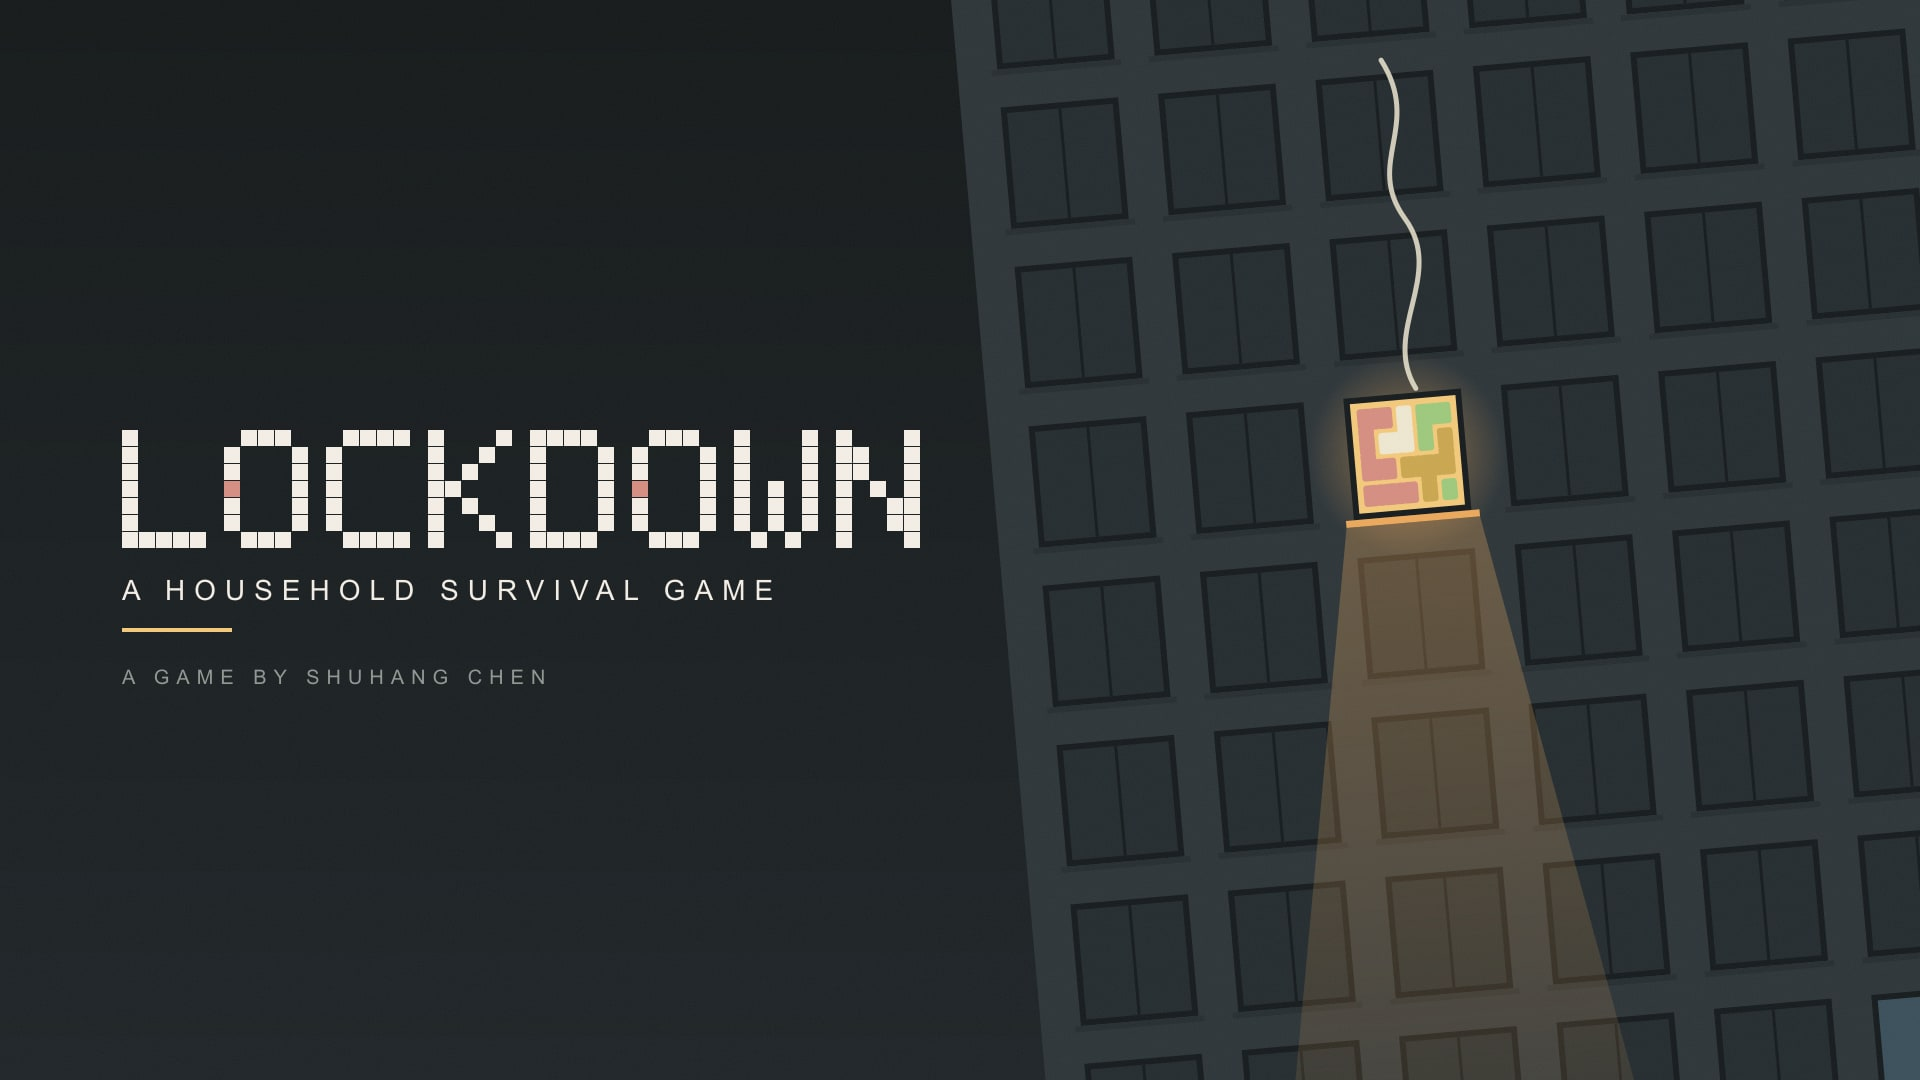
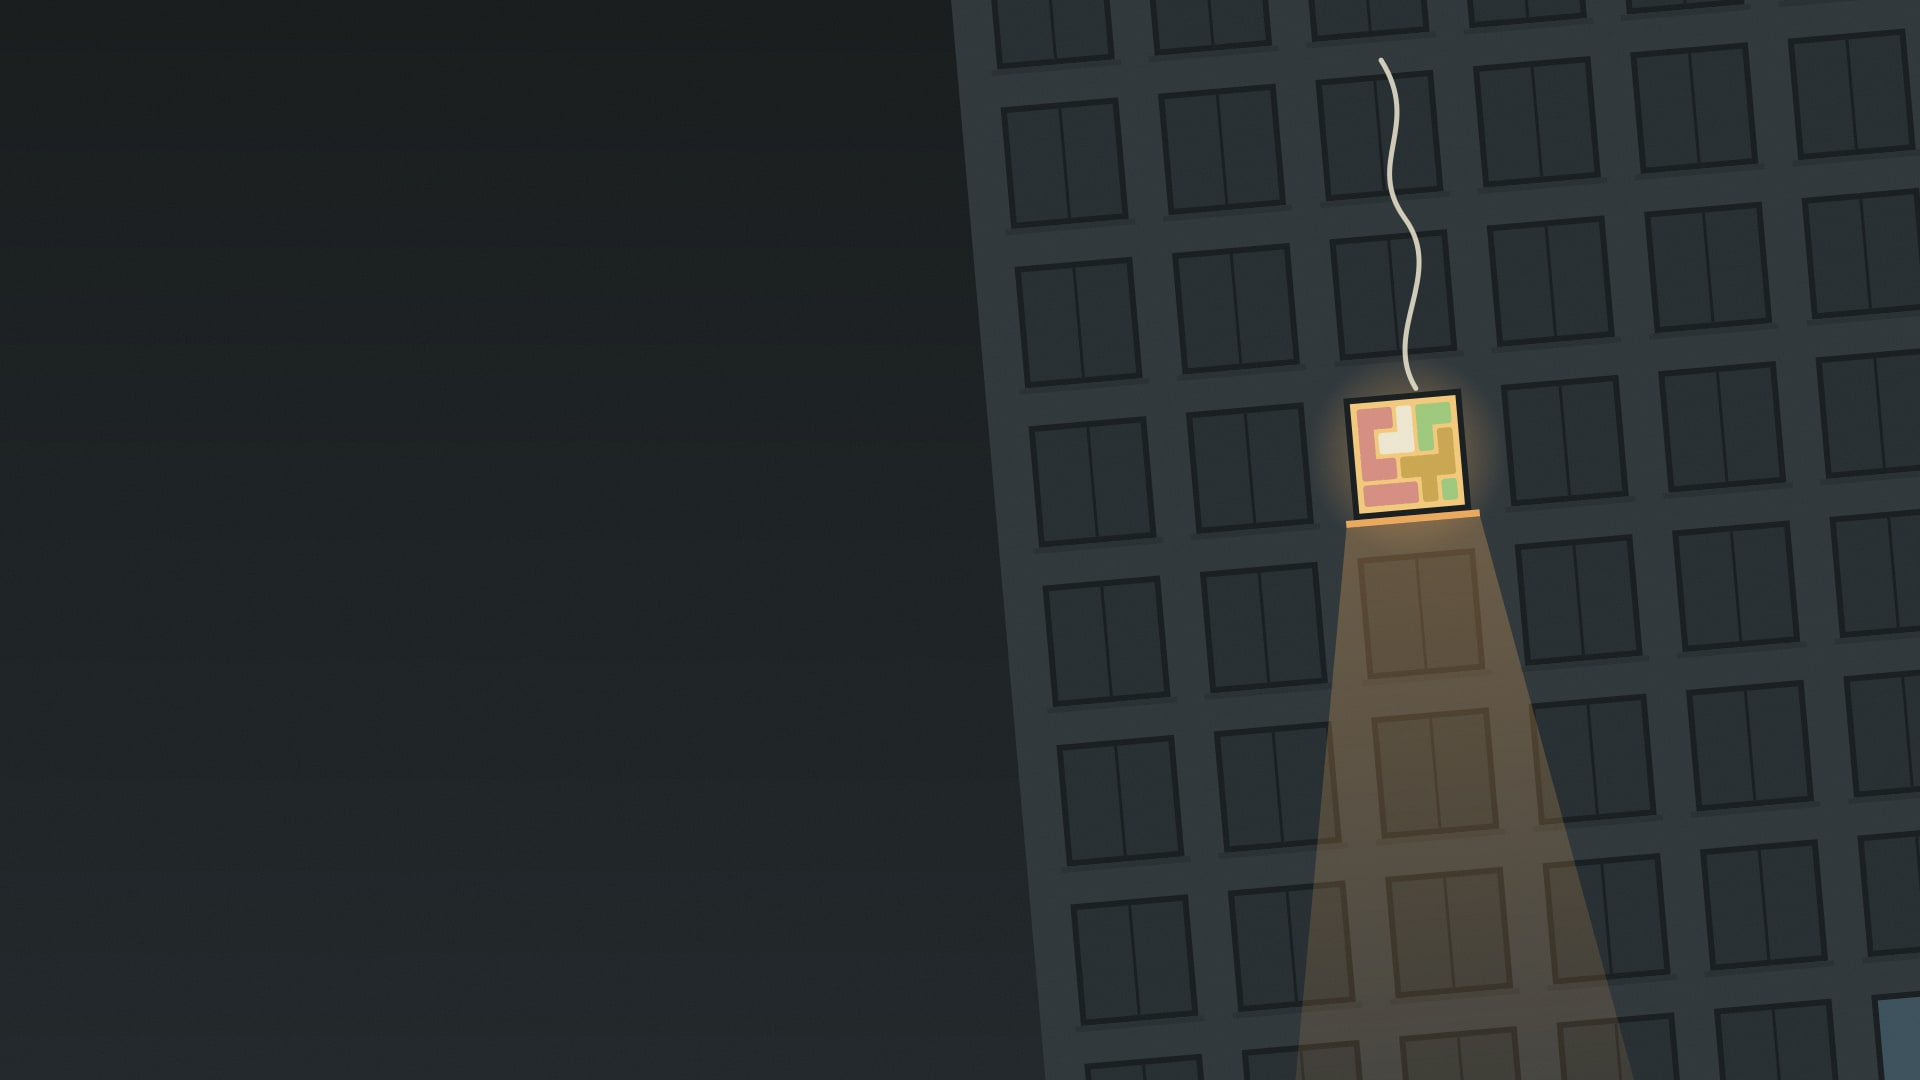
feat: per-game monitor loader (LOCKDOWN), hover lean and glint, disc iridescence, key-art handoff into the project page, idle attract mode

Changed region(s): [[0.0625, 0.3972, 0.5, 0.55], [0.1562, 0.6111, 0.2812, 0.6417], [0.0625, 0.5806, 0.125, 0.6417]]

diff --git a/src/game-loaders.ts b/src/game-loaders.ts
@@ -1,0 +1,84 @@
+import type { ArchiveRecord } from "./data";
+
+/**
+ * Per-game loading screens shown on the monitor while the disc is read.
+ * A record opts in with `loader` in content/archives.json; `t` runs 0 → 1
+ * across the read and the painter owns the whole 16:9 canvas.
+ */
+export type GameLoader = (c: CanvasRenderingContext2D, w: number, h: number, t: number) => void;
+
+const ease = (x: number) => 1 - (1 - Math.min(1, Math.max(0, x))) ** 3;
+const span = (t: number, a: number, b: number) => Math.min(1, Math.max(0, (t - a) / (b - a)));
+
+// LOCKDOWN: the game's ingredient pieces drop into the pan one by one as the
+// progress bar, then the cell-built title snaps in. Colours match the game;
+// the shapes are fitted so they fill the 6×4 pan exactly.
+const PAN_COLS = 6, PAN_ROWS = 4;
+const PIECES: { color: string; cells: [number, number][] }[] = [
+  { color: "#d9706a", cells: [[0, 0], [1, 0], [0, 1], [1, 1], [0, 2], [1, 2], [0, 3]] }, // pork
+  { color: "#ece8dc", cells: [[2, 0], [3, 0], [4, 0], [3, 1], [3, 2]] },                   // rice
+  { color: "#86cf5e", cells: [[2, 1], [2, 2], [1, 3], [2, 3], [3, 3]] },                   // cabbage
+  { color: "#c9a54e", cells: [[5, 0], [5, 1], [5, 2], [4, 1]] },                           // potato
+  { color: "#f5e39a", cells: [[4, 2], [4, 3], [5, 3]] },                                   // egg
+];
+const GLYPHS: Record<string, string[]> = {
+  L: ["10000", "10000", "10000", "10000", "10000", "10000", "11111"],
+  O: ["01110", "10001", "10001", "10001", "10001", "10001", "01110"],
+  C: ["01111", "10000", "10000", "10000", "10000", "10000", "01111"],
+  K: ["10001", "10010", "10100", "11000", "10100", "10010", "10001"],
+  D: ["11110", "10001", "10001", "10001", "10001", "10001", "11110"],
+  W: ["10001", "10001", "10001", "10101", "10101", "10101", "01010"],
+  N: ["10001", "11001", "11001", "10101", "10011", "10011", "10001"],
+};
+
+const lockdown: GameLoader = (c, w, h, t) => {
+  c.fillStyle = "#1d2326";
+  c.fillRect(0, 0, w, h);
+  const cell = h * 0.085, pw = PAN_COLS * cell, ph = PAN_ROWS * cell;
+  const ox = (w - pw) / 2, oy = h * 0.2;
+  // Pan rim and empty grid.
+  c.fillStyle = "#151a1c";
+  c.fillRect(ox - cell * 0.4, oy - cell * 0.4, pw + cell * 0.8, ph + cell * 0.8);
+  c.strokeStyle = "#8c9396";
+  c.lineWidth = 3;
+  c.strokeRect(ox - cell * 0.4, oy - cell * 0.4, pw + cell * 0.8, ph + cell * 0.8);
+  c.fillStyle = "#262c2e";
+  for (let y = 0; y < PAN_ROWS; y++) for (let x = 0; x < PAN_COLS; x++) c.fillRect(ox + x * cell + 2, oy + y * cell + 2, cell - 4, cell - 4);
+  // Pieces fall in sequence over the first 80% of the read, with a small settle.
+  PIECES.forEach((p, i) => {
+    const k = span(t, i * 0.15, i * 0.15 + 0.16);
+    if (!k) return;
+    const drop = (1 - ease(k)) * -h * 0.25, bounce = Math.sin(Math.min(1, k * 1.3) * Math.PI) * (k > 0.75 ? 4 : 0);
+    c.globalAlpha = Math.min(1, k * 3);
+    c.fillStyle = p.color;
+    for (const [x, y] of p.cells) c.fillRect(ox + x * cell + 3, oy + y * cell + 3 + drop - bounce, cell - 6, cell - 6);
+    c.globalAlpha = 1;
+  });
+  // Title snaps in once the pan is full.
+  const title = ease(span(t, 0.78, 0.9));
+  if (title) {
+    const tc = h * 0.016, tw = "LOCKDOWN".length * tc * 6 - tc;
+    let x = (w - tw) / 2;
+    const y = oy + ph + h * 0.11 + (1 - title) * 10;
+    c.globalAlpha = title;
+    for (const ch of "LOCKDOWN") {
+      GLYPHS[ch].forEach((row, r) => [...row].forEach((bit, col) => {
+        if (bit !== "1") return;
+        c.fillStyle = ch === "O" && r === 3 && col === 0 && x > (w - tw) / 2 ? "#d48c80" : "#f2ece4";
+        c.fillRect(x + col * tc, y + r * tc, tc - 1, tc - 1);
+      }));
+      x += tc * 6;
+    }
+    c.globalAlpha = 1;
+  }
+  c.textAlign = "center";
+  c.font = `500 ${h * 0.032}px MiSans, sans-serif`;
+  c.fillStyle = "rgba(242,236,228,.55)";
+  c.fillText(t < 0.78 ? "Preparing today's meal…" : "STAY HOME. KEEP EVERYONE FED.", w / 2, h * 0.92);
+};
+
+const LOADERS: Record<string, GameLoader> = { lockdown };
+
+export function loaderFor(record: ArchiveRecord): GameLoader | undefined {
+  return record.loader ? LOADERS[record.loader] : undefined;
+}

diff --git a/src/console-setup.ts b/src/console-setup.ts
@@ -3,6 +3,9 @@ import { GLTFLoader } from "three/addons/loaders/GLTFLoader.js";
 import { MeshoptDecoder } from "three/addons/libs/meshopt_decoder.module.js";
 import { profile } from "./profile";
 import { drawIdentity, prepareIdentity } from "./profile-particles";
+import type { ArchiveRecord } from "./data";
+import { loaderFor } from "./game-loaders";
+import { drawCover, workImage } from "./case-art";
 
 /**
  * Shared terminal: open case at left, monitor at centre, upright drive at right,
@@ -102,12 +105,12 @@ export class ConsoleSetup {
         this.controller.add(mesh);
       } else this.group.add(mesh);
     });
-    this.draw(0, "");
+    this.draw(0);
     this.loaded = true;
   }
 
   /** Follow the case; `insert` drives the slot light and the loading screen. */
-  update(caseMatrix: THREE.Matrix4, camera: THREE.Vector3, visible: boolean, insert: number, time: number, title: string, workspace = 0, viewportAspect = 16 / 9) {
+  update(caseMatrix: THREE.Matrix4, camera: THREE.Vector3, visible: boolean, insert: number, time: number, record: ArchiveRecord, workspace = 0, viewportAspect = 16 / 9) {
     const presence = Math.max(THREE.MathUtils.smoothstep(insert, 0.18, 0.28), THREE.MathUtils.smoothstep(workspace, .02, .18));
     this.group.visible = visible && this.loaded && presence > 0;
     if (!this.group.visible) return;
@@ -132,7 +135,7 @@ export class ConsoleSetup {
     if (this.light) this.light.emissiveIntensity = power * (0.7 + reading * (1.5 + 1.2 * Math.sin(insert * 110)));
     this.lamp.intensity = Math.max(2.4 * THREE.MathUtils.smoothstep(insert, 0.02, 0.2) * (1 - THREE.MathUtils.smoothstep(insert, 0.85, 1)), 1.6 * presence * lift);
     if (workspace > .001) this.drawPlayer(workspace, viewportAspect);
-    else this.draw(insert, title);
+    else this.draw(insert, record);
   }
 
   /** World-space corners of the screen, for handing over to the page. */
@@ -144,7 +147,8 @@ export class ConsoleSetup {
     return Array.from({ length: position.count }, (_, i) => new THREE.Vector3().fromBufferAttribute(position, i).applyMatrix4(screen.matrixWorld));
   }
 
-  private draw(progress: number, title: string) {
+  private draw(progress: number, record?: ArchiveRecord) {
+    const title = record?.title ?? "";
     // Every visual follows the insertion timeline, including interrupted ejection.
     // Quantise uploads to ~30 fps during the six-second sequence; idle screens reuse pixels.
     progress = Math.round(progress * 180) / 180;
@@ -187,7 +191,12 @@ export class ConsoleSetup {
     c.fillText("W O R K S   /   C O N S O L E", 0, 42);
     c.restore();
 
-    if (progress >= 0.75) {
+    const loader = record && loaderFor(record);
+    if (loader && progress >= 0.75) {
+      // The game's own loading screen takes over the monitor once the system wakes.
+      c.globalAlpha = ease(progress, 0.75, 0.8);
+      loader(c, w, h, THREE.MathUtils.clamp((progress - 0.76) / 0.22, 0, 1));
+    } else if (progress >= 0.75) {
       const system = ease(progress, 0.75, 0.83);
       const read = ease(progress, 0.85, 0.98);
       c.globalAlpha *= system;
@@ -202,6 +211,13 @@ export class ConsoleSetup {
       c.font = "500 22px MiSans, sans-serif";
       c.fillStyle = "rgba(238, 243, 255, 0.55)";
       c.fillText(progress < 0.85 ? "BOOT / Initializing…" : progress < 0.98 ? "DISC / Reading works…" : "READY", w / 2, h * 0.73);
+    }
+    // Last beat: the project's key art, so the page grows out of the same picture.
+    const art = record && workImage(record.id, record.hero ? "hero" : "cover");
+    const handoff = ease(progress, 0.95, 0.995);
+    if (art && handoff) {
+      c.globalAlpha = handoff;
+      drawCover(c, art, 0, 0, w, h);
     }
     c.restore();
     this.texture.needsUpdate = true;

diff --git a/src/scene.ts b/src/scene.ts
@@ -251,6 +251,7 @@ export class ArchiveScene {
   private dragging = false;
   private hoverCell: ArchiveCell | null = null;
   private hoverLifts = new Map<string, number>();
+  private glint = new THREE.PointLight("#fff4e2", 0, 7, 2);
   private archiveDrag = Object.assign(new ArchiveDrag(), { lockLane: true });
   private dragTrack: DragPosition | null = null;
   private navigatingDrag = false;
@@ -342,6 +343,7 @@ export class ArchiveScene {
     this.scene.add(floor);
     this.dust = new ParticleField(this.renderer.domElement);
     this.scene.add(this.dust.points);
+    this.scene.add(this.glint);
     this.camera.position.set(-62.26, 35.98, 43.28);
     this.cameraAim.set(-0.5, 1.1, 0.4);
     this.camera.fov = 6.15;
@@ -1611,9 +1613,18 @@ export class ArchiveScene {
         0.024 *
         (1 - detail) *
         (1 - ease(this.lift.value / 0.4)),
-      cinematic ? 0 : this.rotation,
+      cinematic ? 0 : this.rotation + (hoverLift(this.selectedCell) / 0.28) * this.pointer.x * .5 * (1 - detail),
       0,
     );
+    this.model.rotation.x += (hoverLift(this.selectedCell) / 0.28) * this.pointer.y * .22 * (1 - detail);
+    // A small light sweeps across the hovered case with the cursor: the glint.
+    const glintCell = this.hoverCell && !cinematic ? this.hoverCell : null;
+    const glintTarget = glintCell ? hoverLift(glintCell) / 0.28 : 0;
+    if (glintCell) {
+      const g = this.cellPosition(glintCell);
+      this.glint.position.set(g.x - trackX + this.pointer.x * 3, g.y + field(glintCell.row, glintCell.lane) + 1.6 - this.pointer.y * 2, g.z + entryZ + this.rail.value + 3);
+    }
+    this.glint.intensity = THREE.MathUtils.lerp(this.glint.intensity, glintTarget * 26, 1 - Math.exp(-dt * 10));
     // Measured from frame 787: X edge (382,-204), adjacent row (78,38).
     // The label vertical edge constrains height; the file base is occluded.
     // Do not calibrate field of view from the visible fragment of a file.
@@ -1850,7 +1861,9 @@ export class ArchiveScene {
 
       const slope = field(row + .5, lane) - field(row - .5, lane);
       this.dummy.position.set(x, y, z);
-      this.dummy.rotation.set(slope * .024 * (1 - detail), 0, 0);
+      // Hovered cases lean toward the cursor so the shrink-wrap catches the light.
+      const lean = hoverLift(cell) / 0.28;
+      this.dummy.rotation.set(slope * .024 * (1 - detail) + lean * this.pointer.y * .22, lean * this.pointer.x * .5, 0);
       this.dummy.scale.setScalar(1);
       this.dummy.updateMatrix();
       if (play.enabled) this.relayPoints.set(cellKey(cell), { cell: { ...cell }, point: new THREE.Vector3(0, 3.5, 0).applyMatrix4(this.dummy.matrix) });
@@ -1924,7 +1937,7 @@ export class ArchiveScene {
       if (this.shadowCoverage) this.shadowCoverage.mesh.visible = arrayVisibility === 1;
       for (const outgoing of this.outgoing) outgoing.group.visible = arrayVisibility === 1;
       this.model.updateMatrixWorld();
-      this.setup.update(this.model.matrixWorld, this.camera.position, !cinematic && (this.detail > 0.02 || this.workspace.value > .01) && this.presence > 0.01, this.insert.value, time, records[fileAtCell(this.selectedCell)].title, this.workspace.value, this.camera.aspect);
+      this.setup.update(this.model.matrixWorld, this.camera.position, !cinematic && (this.detail > 0.02 || this.workspace.value > .01) && this.presence > 0.01, this.insert.value, time, records[fileAtCell(this.selectedCell)], this.workspace.value, this.camera.aspect);
     }
     const state = this.renderState;
     this.scene.updateMatrixWorld();

diff --git a/src/case-art.ts b/src/case-art.ts
@@ -8,7 +8,7 @@ const HUES: Record<string, number> = { Games: 32, Web: 215, "3D Graphics": 24, I
 /** Cover art supplied per work (content/archives.json `cover`), decoded before cases are printed. */
 const coverImages = new Map<string, HTMLImageElement>();
 export async function preloadCovers(works: ArchiveRecord[], url: (path: string) => string) {
-  await Promise.all(works.flatMap((r) => (["cover", "spine", "disc", "back"] as const).filter((k) => r[k]).map(async (k) => {
+  await Promise.all(works.flatMap((r) => (["cover", "spine", "disc", "back", "hero"] as const).filter((k) => r[k]).map(async (k) => {
     const key = `${r.id}:${k}`;
     if (coverImages.has(key)) return;
     const image = new Image();
@@ -16,8 +16,10 @@ export async function preloadCovers(works: ArchiveRecord[], url: (path: string) 
     try { await image.decode(); coverImages.set(key, image); } catch { /* Fall back to the printed art. */ }
   })));
 }
+/** A decoded per-work image (cover, hero …), if it loaded. */
+export const workImage = (id: string, key: string) => coverImages.get(`${id}:${key}`);
 /** Draw an image to fill a box, cropping the overflow (CSS object-fit: cover). */
-function drawCover(c: CanvasRenderingContext2D, image: HTMLImageElement, x: number, y: number, w: number, h: number) {
+export function drawCover(c: CanvasRenderingContext2D, image: HTMLImageElement, x: number, y: number, w: number, h: number) {
   const k = Math.max(w / image.naturalWidth, h / image.naturalHeight);
   const sw = w / k, sh = h / k;
   c.drawImage(image, (image.naturalWidth - sw) / 2, (image.naturalHeight - sh) / 2, sw, sh, x, y, w, h);

diff --git a/src/project-page.ts b/src/project-page.ts
@@ -92,11 +92,18 @@ export class ProjectPage {
     // From the monitor: start clipped to its screen, then grow to fill the window.
     const from = options.from;
     this.root.classList.toggle("from-screen", Boolean(from));
-    if (from) this.root.style.clipPath = `inset(${from.top}px ${innerWidth - from.right}px ${innerHeight - from.bottom}px ${from.left}px round 6px)`;
+    const art = this.root.querySelector<HTMLElement>(".pp-hub-art");
+    if (from) {
+      this.root.style.clipPath = `inset(${from.top}px ${innerWidth - from.right}px ${innerHeight - from.bottom}px ${from.left}px round 6px)`;
+      // The monitor ends on this same image; start the art fitted to the screen so
+      // the two read as one picture growing out of it.
+      const s = Math.max((from.right - from.left) / innerWidth, (from.bottom - from.top) / innerHeight);
+      art?.style.setProperty("transform", `translate(${(from.left + from.right) / 2 - innerWidth / 2}px, ${(from.top + from.bottom) / 2 - innerHeight / 2}px) scale(${s})`);
+    }
     // Commit the hidden state first so the fade actually runs.
     void this.root.offsetWidth;
     this.root.classList.add("visible");
-    if (from) requestAnimationFrame(() => { this.root.style.clipPath = "inset(0 0 0 0 round 0px)"; });
+    if (from) requestAnimationFrame(() => { this.root.style.clipPath = "inset(0 0 0 0 round 0px)"; art?.style.removeProperty("transform"); });
     this.root.scrollTop = 0;
     this.chapters.sync();
     this.root.querySelector<HTMLElement>("#pp-title")?.focus({ preventScroll: true });

diff --git a/src/main.ts b/src/main.ts
@@ -493,6 +493,23 @@ function stepFile(direction: number) {
 function stepColumn(direction: number) {
   stepFile(direction);
 }
+// Idle attract mode: after 20 s without input on the home shelf, cycle through
+// the works every 6 s, like a console home screen. Any input stops it.
+const ATTRACT_AFTER = 20000, ATTRACT_EVERY = 6000;
+let lastInput = performance.now(), lastAttract = 0;
+for (const type of ["pointermove", "pointerdown", "keydown", "wheel", "touchstart"])
+  addEventListener(type, () => { lastInput = performance.now(); }, { passive: true, capture: true });
+setInterval(() => {
+  const now = performance.now();
+  if (mode !== "archive" || modal || location.hash || document.hidden || !ready) return;
+  if (now - lastInput < ATTRACT_AFTER || now - lastAttract < ATTRACT_EVERY) return;
+  lastAttract = now;
+  const files = columnFiles(fileLocation(selected).lane);
+  if (files.length < 2) return;
+  const at = files.indexOf(selected);
+  if (at < files.length - 1) stepFile(1);
+  else select(files[0], { axis: "row", direction: -1 });
+}, 500);
 function updateSelection(navigation?: ArchiveNavigation) {
   const r = records[selected];
   const { lane } = fileLocation(selected);

diff --git a/src/game-case.ts b/src/game-case.ts
@@ -20,7 +20,9 @@ export const isCaseSurface = (name: string) => /^(Case_|Insert_|Disc|Hub_)/.test
 function materials() {
   const shell = new THREE.MeshPhysicalMaterial({ name: "Case_Shell", color: "#171a1d", roughness: 0.43, clearcoat: 0.35, clearcoatRoughness: 0.25 });
   const print = new THREE.MeshPhysicalMaterial({ name: "Insert_Print", color: "#ffffff", roughness: 0.45, clearcoat: 1, clearcoatRoughness: 0.06 });
-  const disc = new THREE.MeshPhysicalMaterial({ name: "Disc_Surface", color: "#d9d9d6", metalness: 1, roughness: 0.2 });
+  const disc = new THREE.MeshPhysicalMaterial({ name: "Disc_Surface", color: "#d9d9d6", metalness: 1, roughness: 0.14,
+    // Thin-film sheen: the rainbow that slides across a real disc as it turns.
+    iridescence: 1, iridescenceIOR: 1.8, iridescenceThicknessRange: [180, 620] });
   const label = new THREE.MeshPhysicalMaterial({ name: "Disc_Label", color: "#ffffff", roughness: 0.4 });
   const hub = new THREE.MeshPhysicalMaterial({ name: "Hub_Plastic", color: "#1d2226", roughness: 0.5 });
   return { Case_Shell: shell, Insert_Print: print, Disc_Surface: disc, Disc_Label: label, Hub_Plastic: hub } as Record<string, THREE.MeshPhysicalMaterial>;

diff --git a/src/project-page.css b/src/project-page.css
@@ -250,6 +250,7 @@
 @media (max-width: 860px) { .profile-hero { grid-template-columns: 1fr; justify-items: start; } .profile-avatar { width: 140px; } }
 /* Grown out of the monitor screen after a disc is read. */
 .project-page.from-screen { opacity: 1; transform: none; transition: clip-path 0.75s cubic-bezier(0.65, 0, 0.35, 1); }
+.project-page.from-screen .pp-hub-art { animation: none; transform-origin: 50% 50%; transition: transform 0.75s cubic-bezier(0.65, 0, 0.35, 1); }
 @media (prefers-reduced-motion: reduce) { .project-page.from-screen { transition: none; } }
 
 /* Archive reading layout: fixed chapter rail and captions outside the imagery. */

diff --git a/src/data.ts b/src/data.ts
@@ -19,6 +19,8 @@ export interface ArchiveRecord {
   disc?: string;
   /** Optional back-cover art, same size as the cover. */
   back?: string;
+  /** Optional monitor loading screen while the disc is read (src/game-loaders.ts). */
+  loader?: string;
   hero?: string;
   gallery?: { src: string; caption?: string; note?: string }[];
   video?: string;
